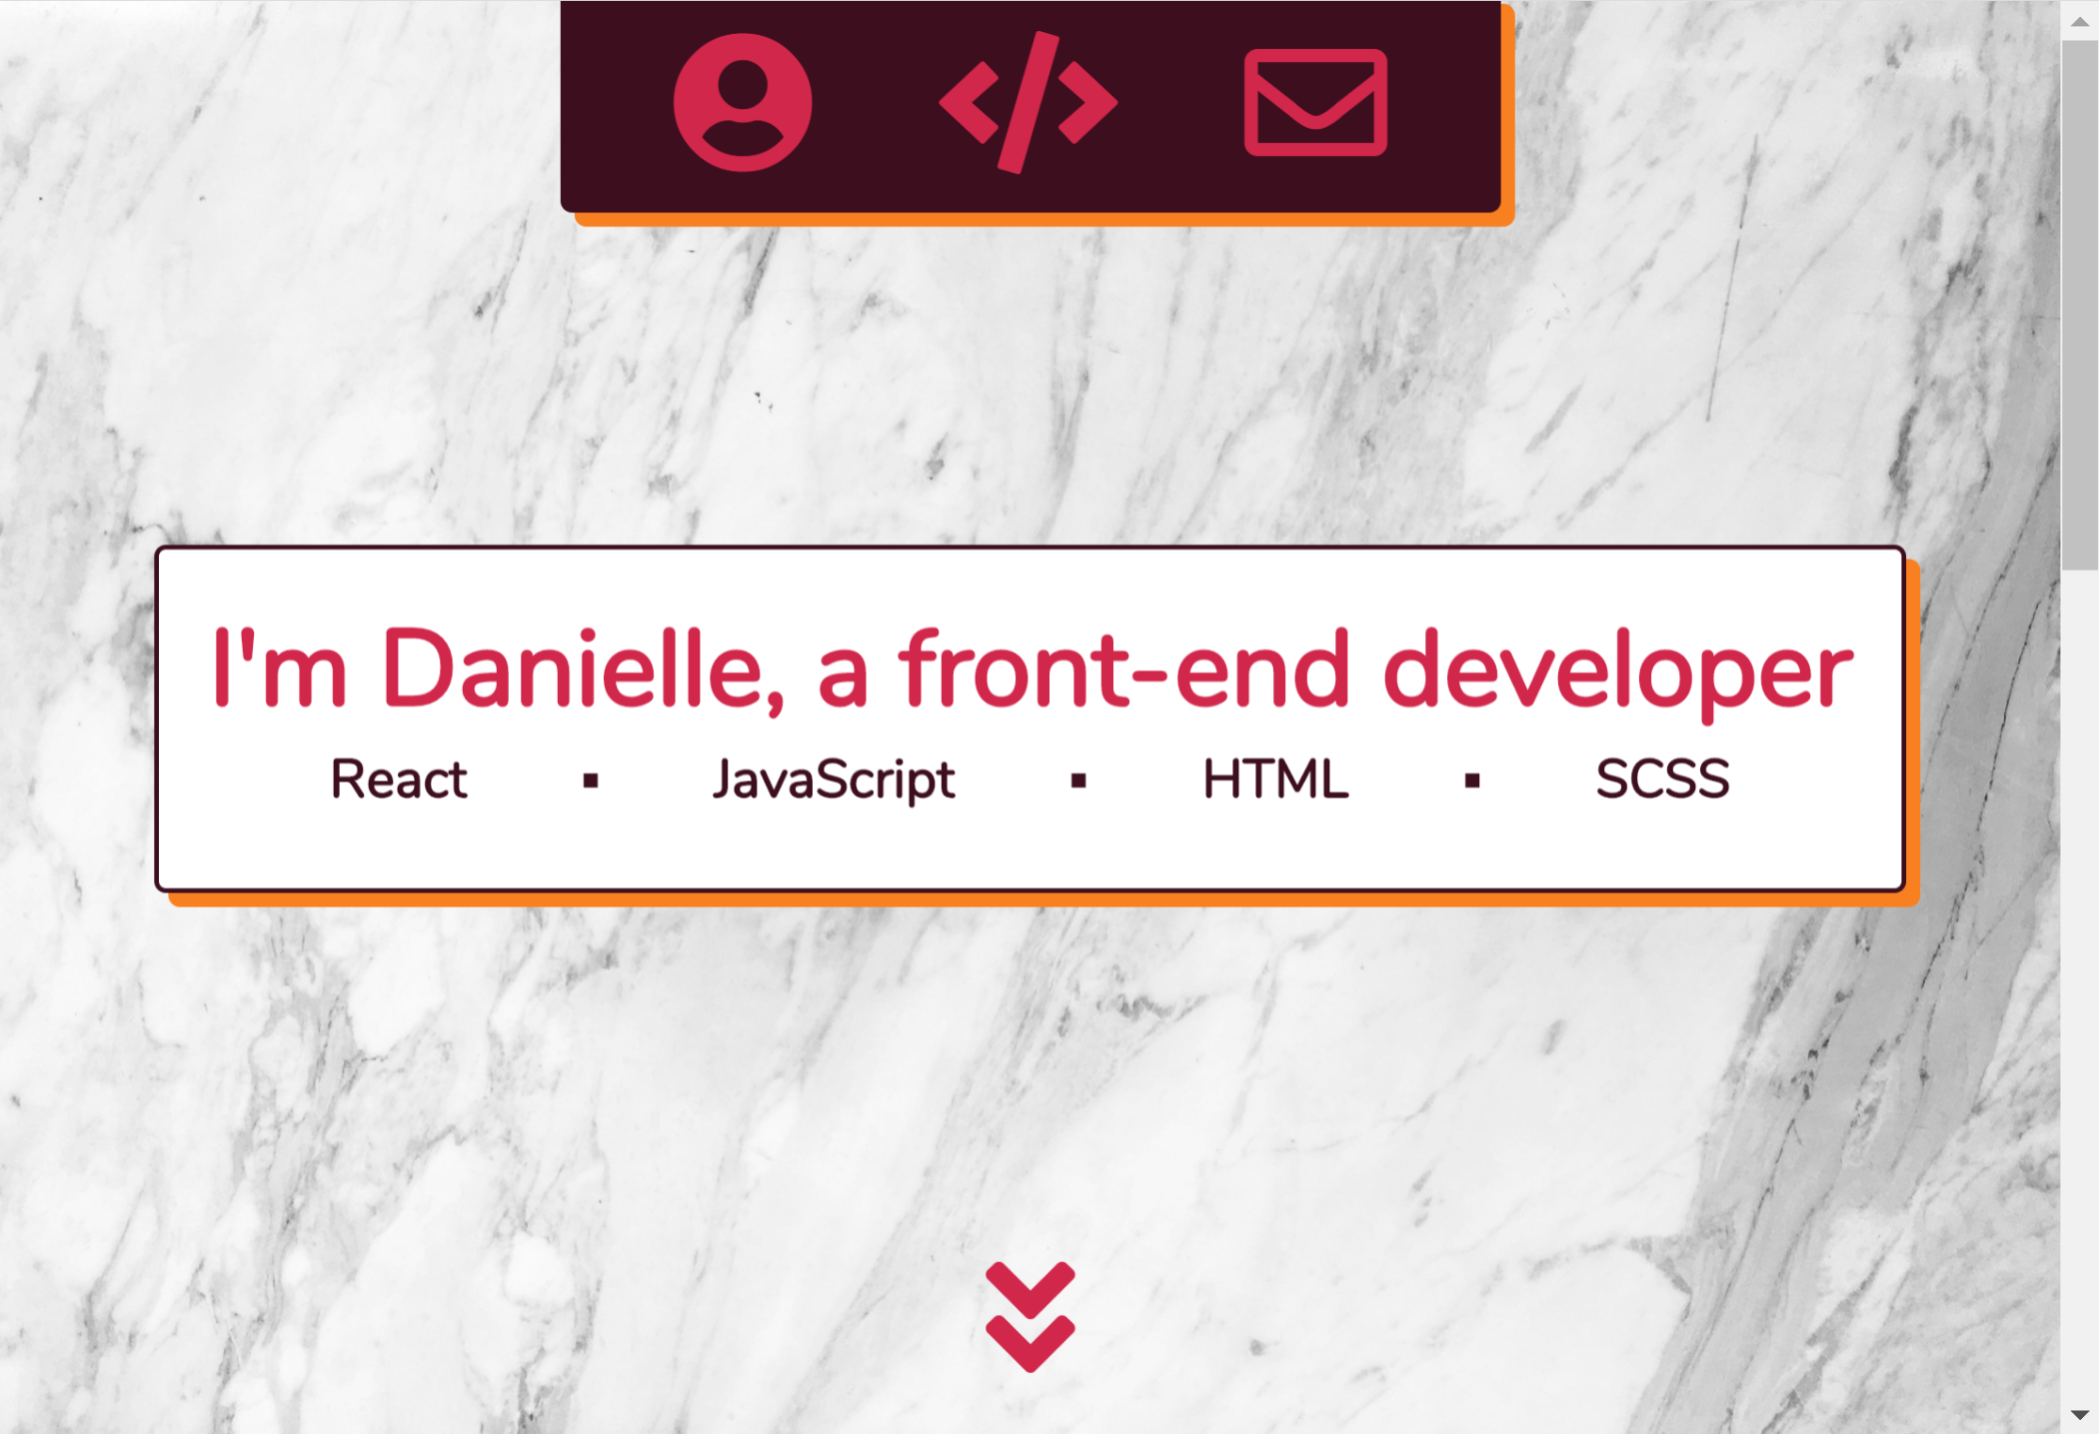
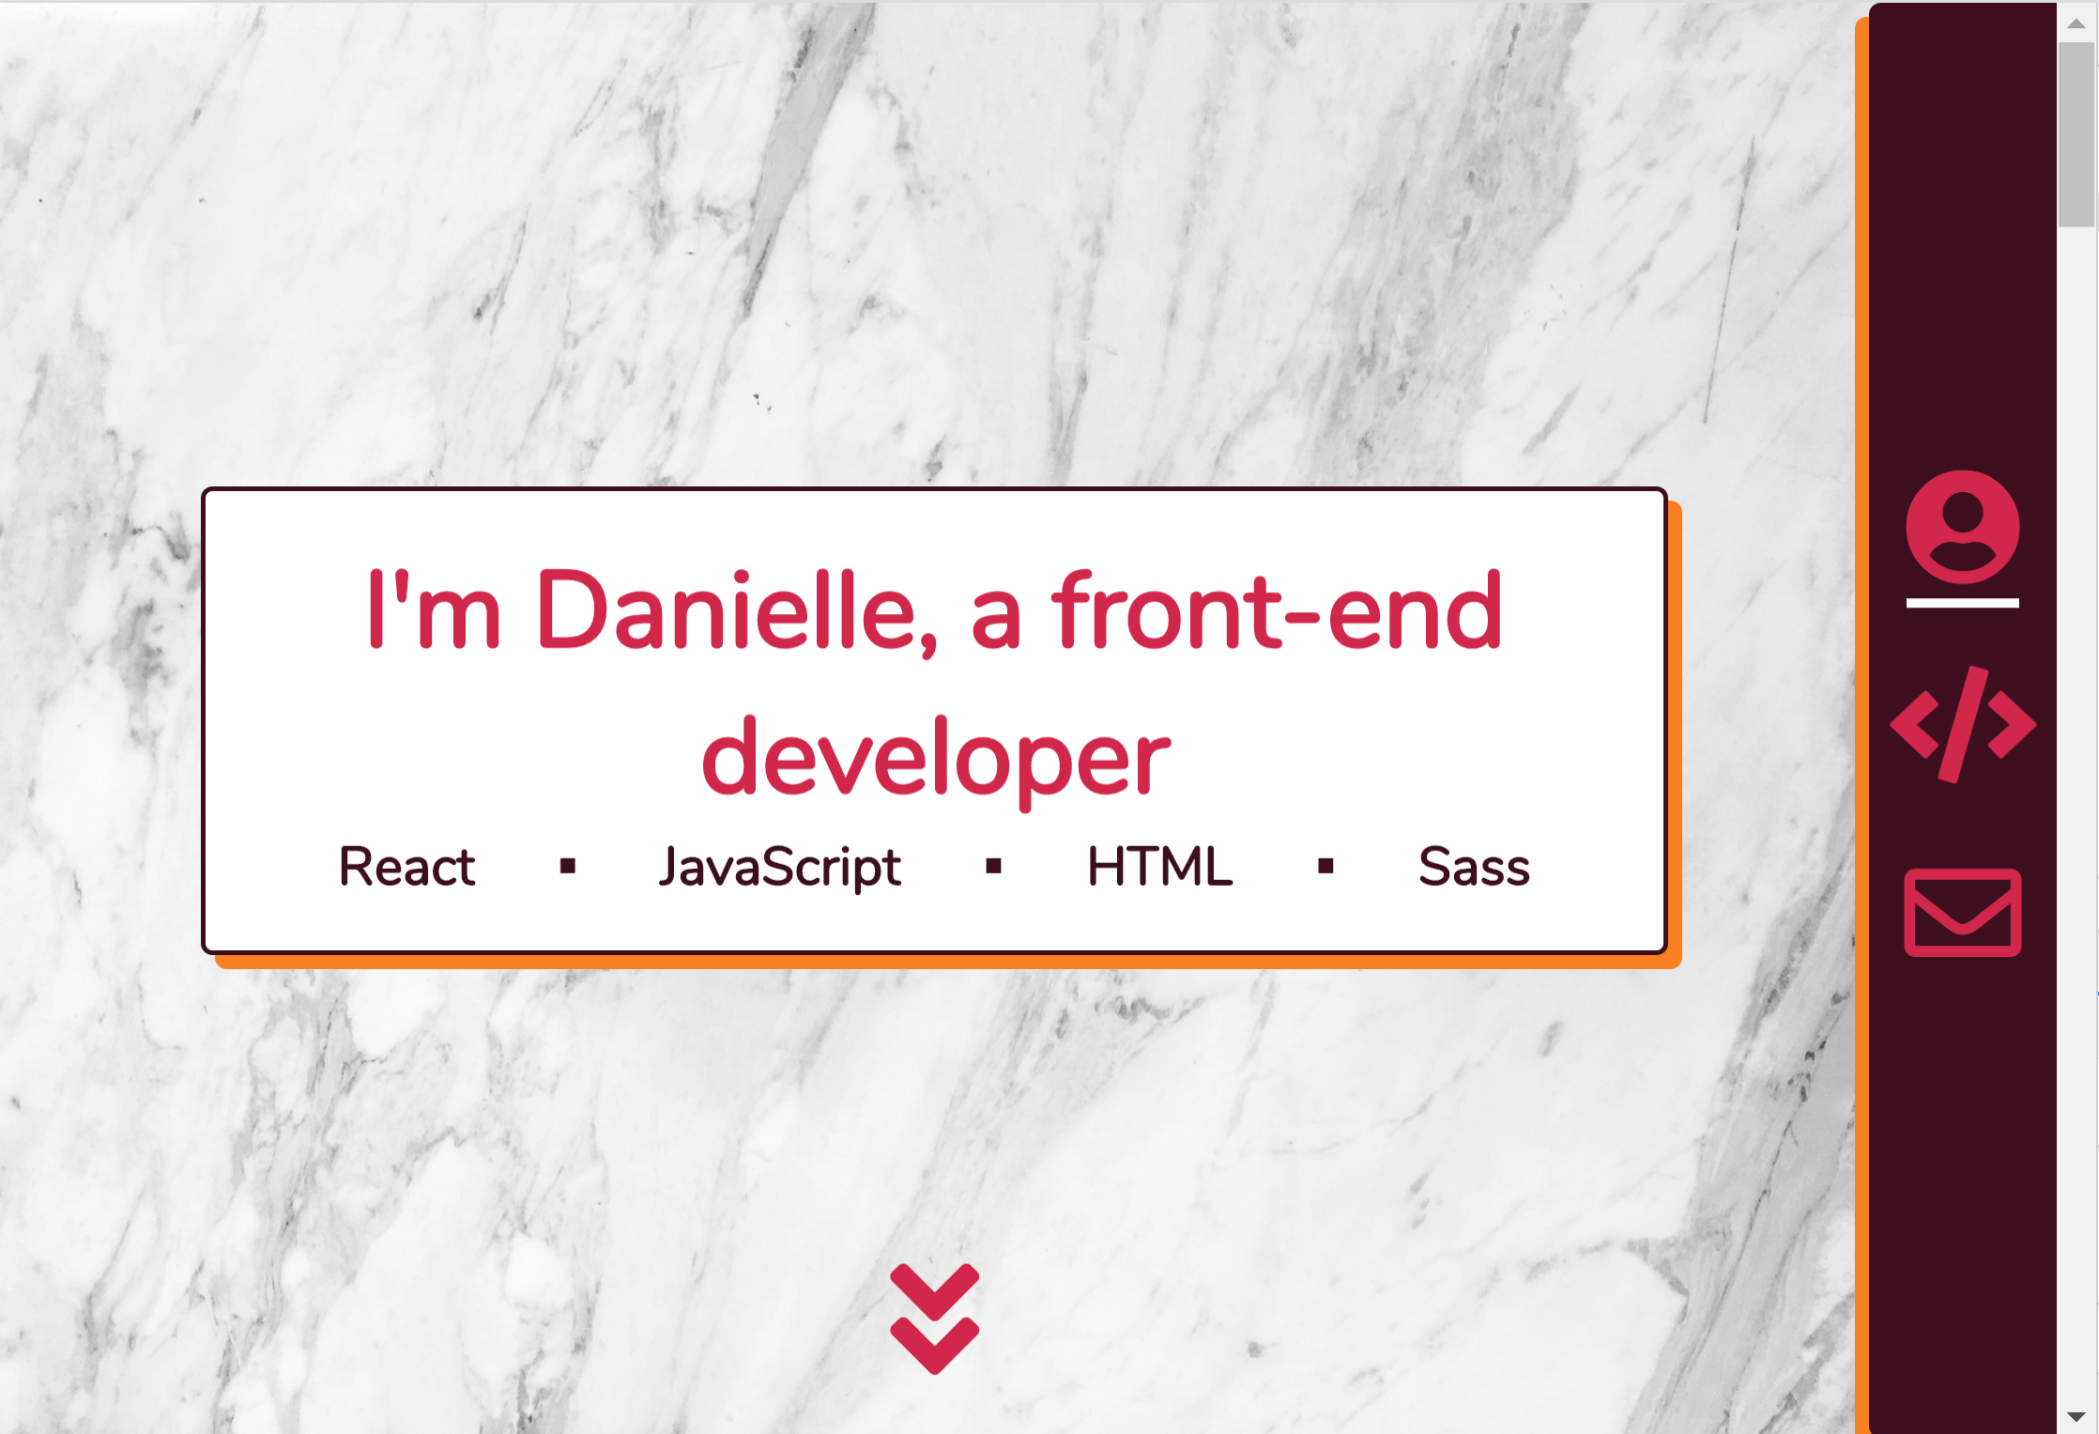
Fix intro card dots, update portfolio screencap

diff --git a/src/css/_landing.scss b/src/css/_landing.scss
@@ -5,13 +5,7 @@
     justify-content: center;
     align-items: center;
     background: url("../img/marble.jpg") no-repeat center center fixed;
-	background-size: cover;
-    i {
-        position: absolute;
-        bottom: 20px;
-        font-size: 4em;
-        color: $light-accent;
-    }
+    background-size: cover;
 }    
 
 .intro {
@@ -20,7 +14,7 @@
     justify-content: center;
     background-color: $base;
     border-radius: 5px;
-    padding: 0 20px;
+    padding: 20px;
     border: 2px solid $dark-accent;
     box-shadow: 6px 6px $highlight;
     box-sizing: border-box;
@@ -30,7 +24,6 @@
         font-size: 3em;
         font-weight: bold;
         margin: 0;
-        margin-top: 20px;
         text-align: center;
     }
     div {
@@ -39,9 +32,17 @@
         font-weight: bold;
         display: flex;
         justify-content: space-evenly;
+        align-items: center;
     }
 }
 
-.dot {
-    font-size: 2em;
+.fa-square-full {
+    font-size: 0.28em;
+}
+
+.fa-angle-double-down {
+    position: absolute;
+    bottom: 20px;
+    font-size: 4em;
+    color: $light-accent;
 }

diff --git a/src/components/Landing.js b/src/components/Landing.js
@@ -6,7 +6,7 @@ export class Landing extends Component {
             <section id="landing">
                 <div className="intro">
                     <p>I'm Danielle, a front-end developer</p>
-                    <div><span>React</span><span className="dot">&#775;</span><span>JavaScript</span><span className="dot">&#775;</span><span>HTML</span><span className="dot">&#775;</span><span>Sass</span></div>
+                    <div><span>React</span><i className="fas fa-square-full"></i><span>JavaScript</span><i className="fas fa-square-full"></i><span>HTML</span><i className="fas fa-square-full"></i><span>Sass</span></div>
                 </div>
                 <i className="fas fa-angle-double-down"></i>
             </section>
